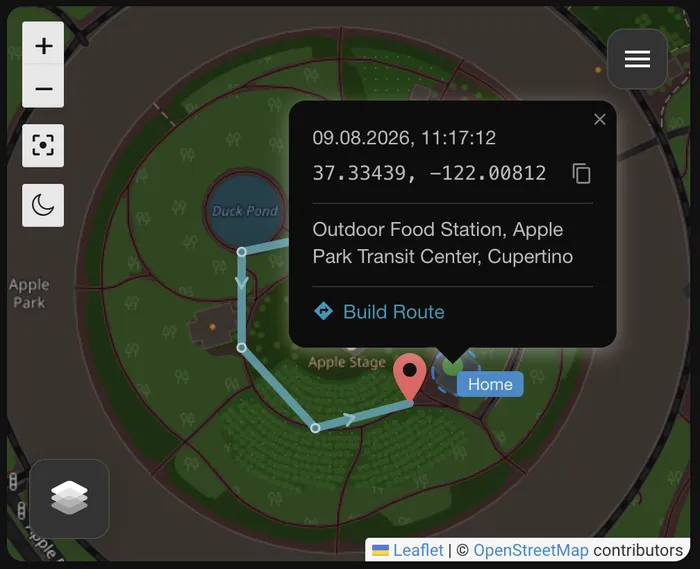
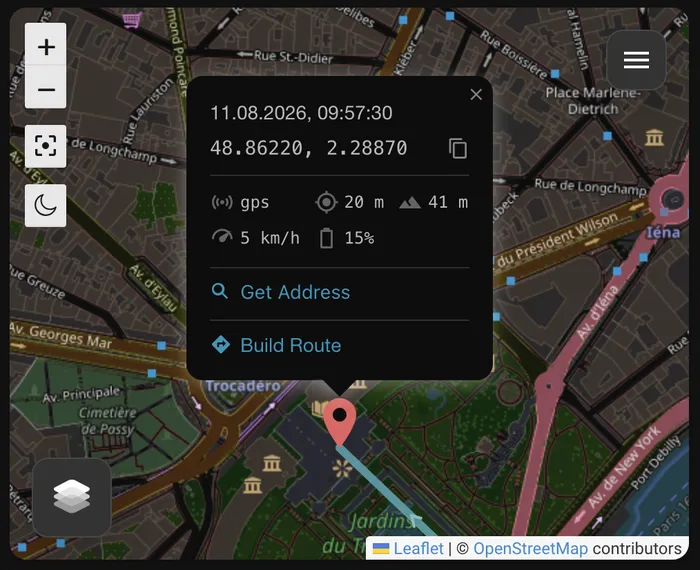
fix: Fix popup layout and update static demo

diff --git a/frontend/src/css/popup.ts b/frontend/src/css/popup.ts
@@ -21,9 +21,10 @@ export const popupStyles = css`
     font-family: monospace;
   }
   .rt-popup-extra-attrs {
-    display: flex;
-    gap: 6px 16px;
-    justify-content: flex-start;
+    display: grid;
+    grid-template-columns: repeat(3, max-content);
+    gap: 8px 10px;
+    justify-content: start;
     padding-top: 10px;
     border-top: 1px solid #d8d8d8;
     font-family: monospace;

diff --git a/README.md b/README.md
@@ -102,7 +102,7 @@ The integration threshold is applied before the virtual sensor is updated. It ac
 
 | Static Preview | Animated Demo (AVIF) |
 | :---: | :---: |
-| <a href="https://raw.githubusercontent.com/underhax/ha-route-tracker/main/.github/demo/demo.webp" target="_blank"><img src="https://raw.githubusercontent.com/underhax/ha-route-tracker/main/.github/demo/demo.webp" width="350" alt="Static Preview"></a> | <a href="https://raw.githubusercontent.com/underhax/ha-route-tracker/main/.github/demo/demo.avif" target="_blank"><img src="https://raw.githubusercontent.com/underhax/ha-route-tracker/main/.github/demo/demo.avif" width="350" alt="Animated Demo (Modern Browser Required)"></a> |
+| <a href="https://raw.githubusercontent.com/underhax/ha-route-tracker/refs/heads/main/.github/demo/demo.webp" target="_blank"><img src="https://github.com/underhax/ha-route-tracker/blob/main/.github/demo/demo.webp?raw=true" width="350" alt="Static Preview"></a> | <a href="https://raw.githubusercontent.com/underhax/ha-route-tracker/main/.github/demo/demo.avif" target="_blank"><img src="https://github.com/underhax/ha-route-tracker/blob/main/.github/demo/demo.avif?raw=true" width="350" alt="Animated Demo (Modern Browser Required)"></a> |
 
 ### Add the resource
 
